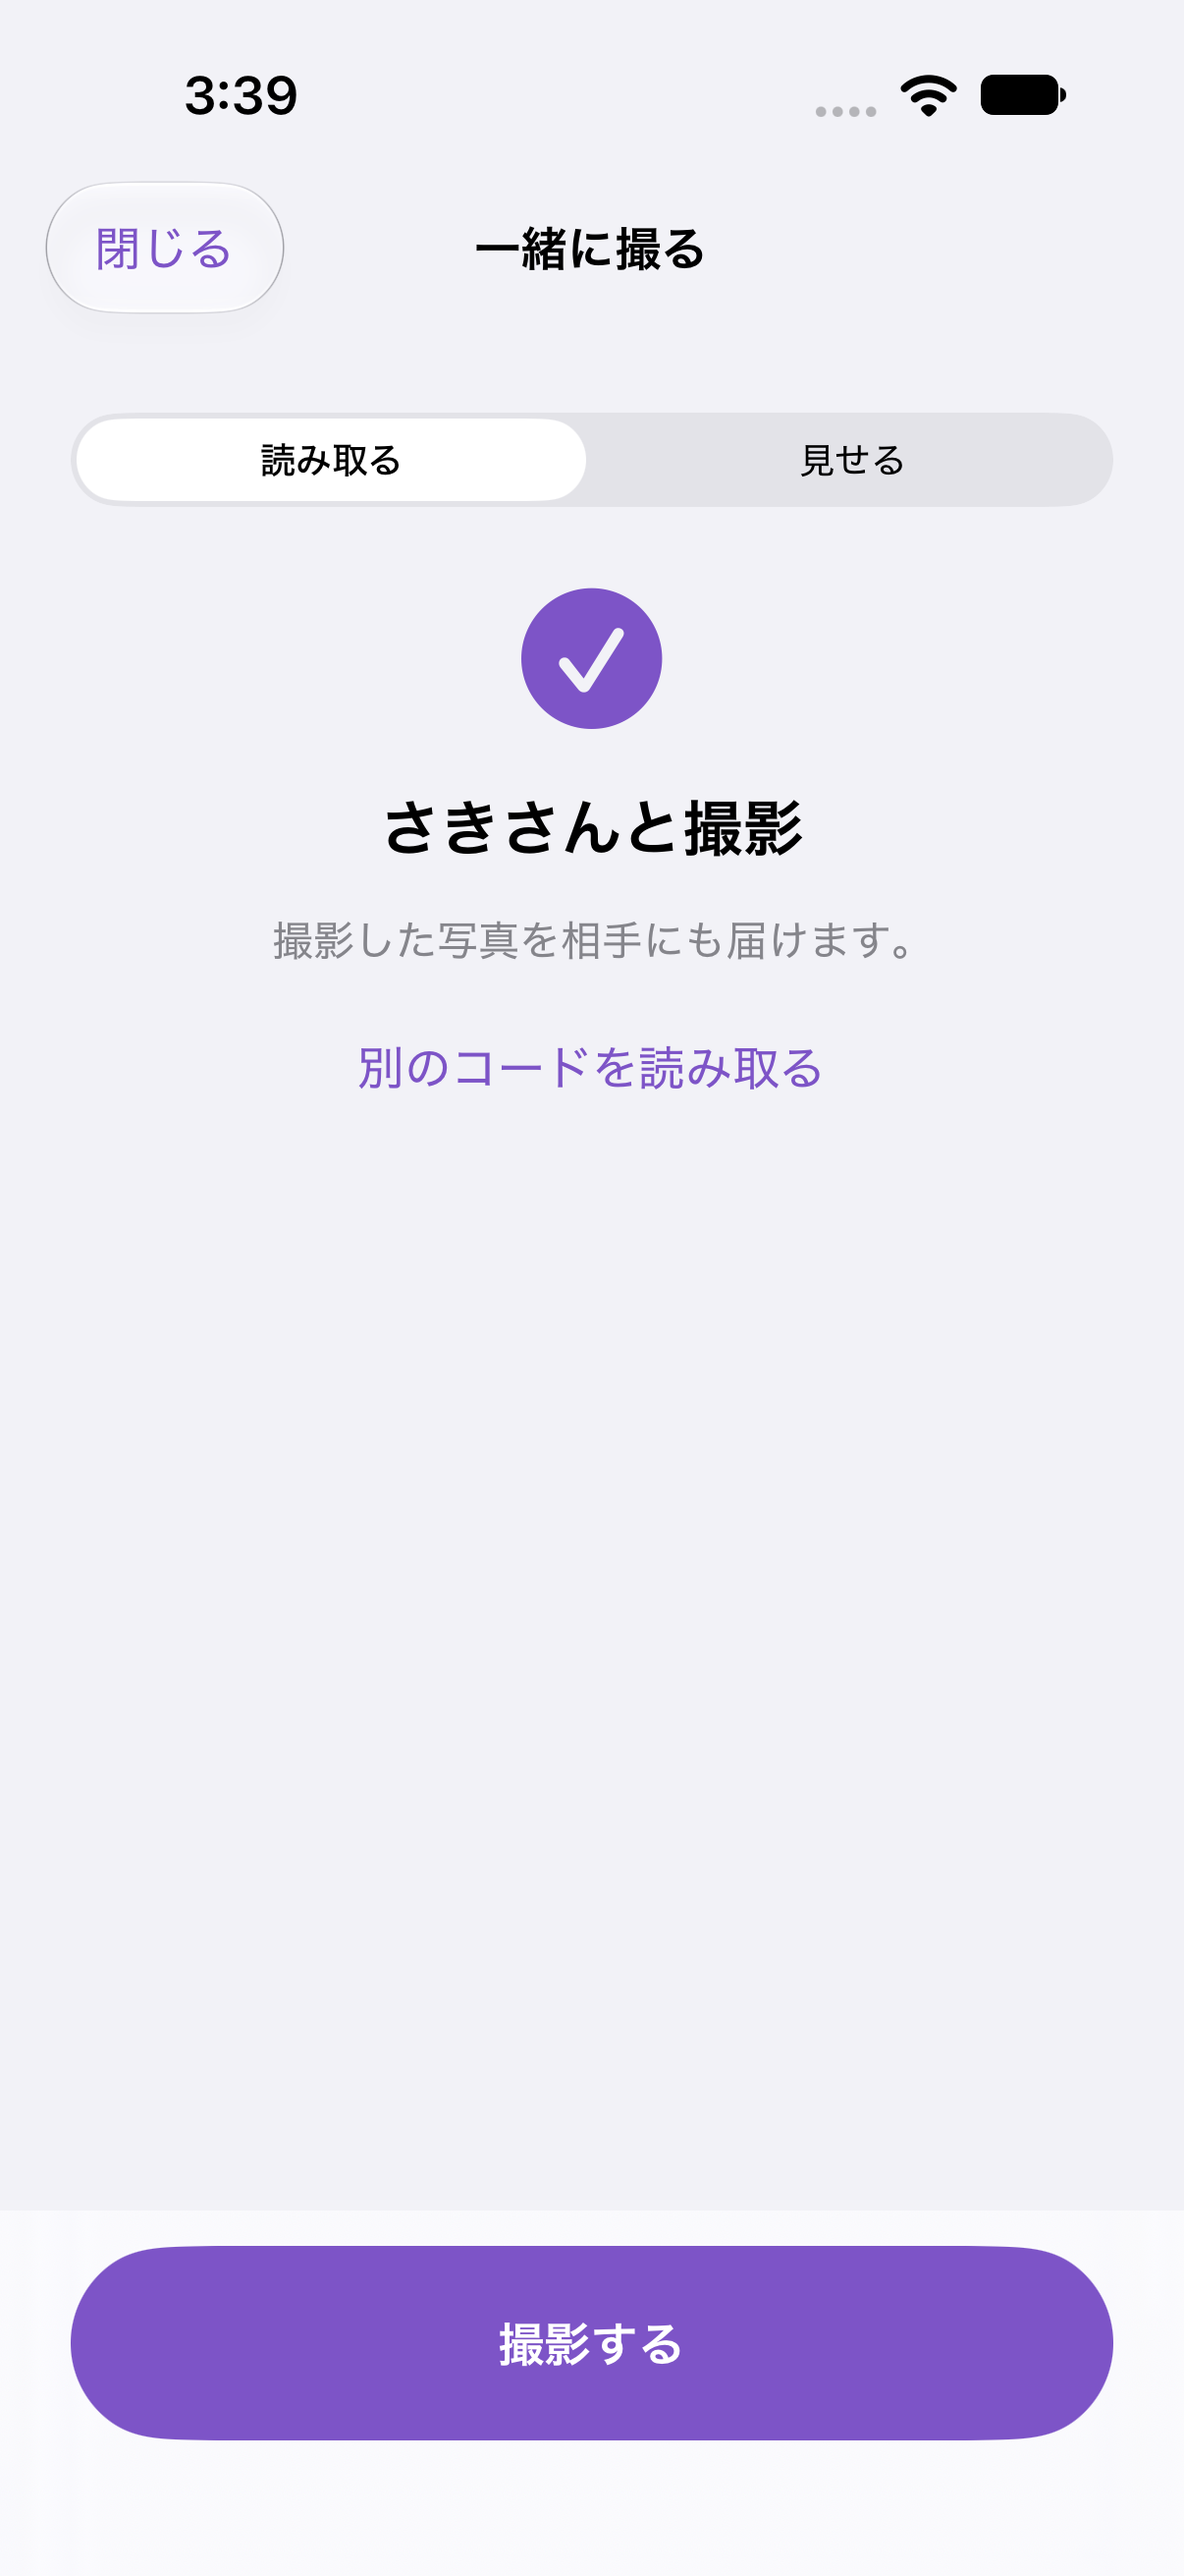
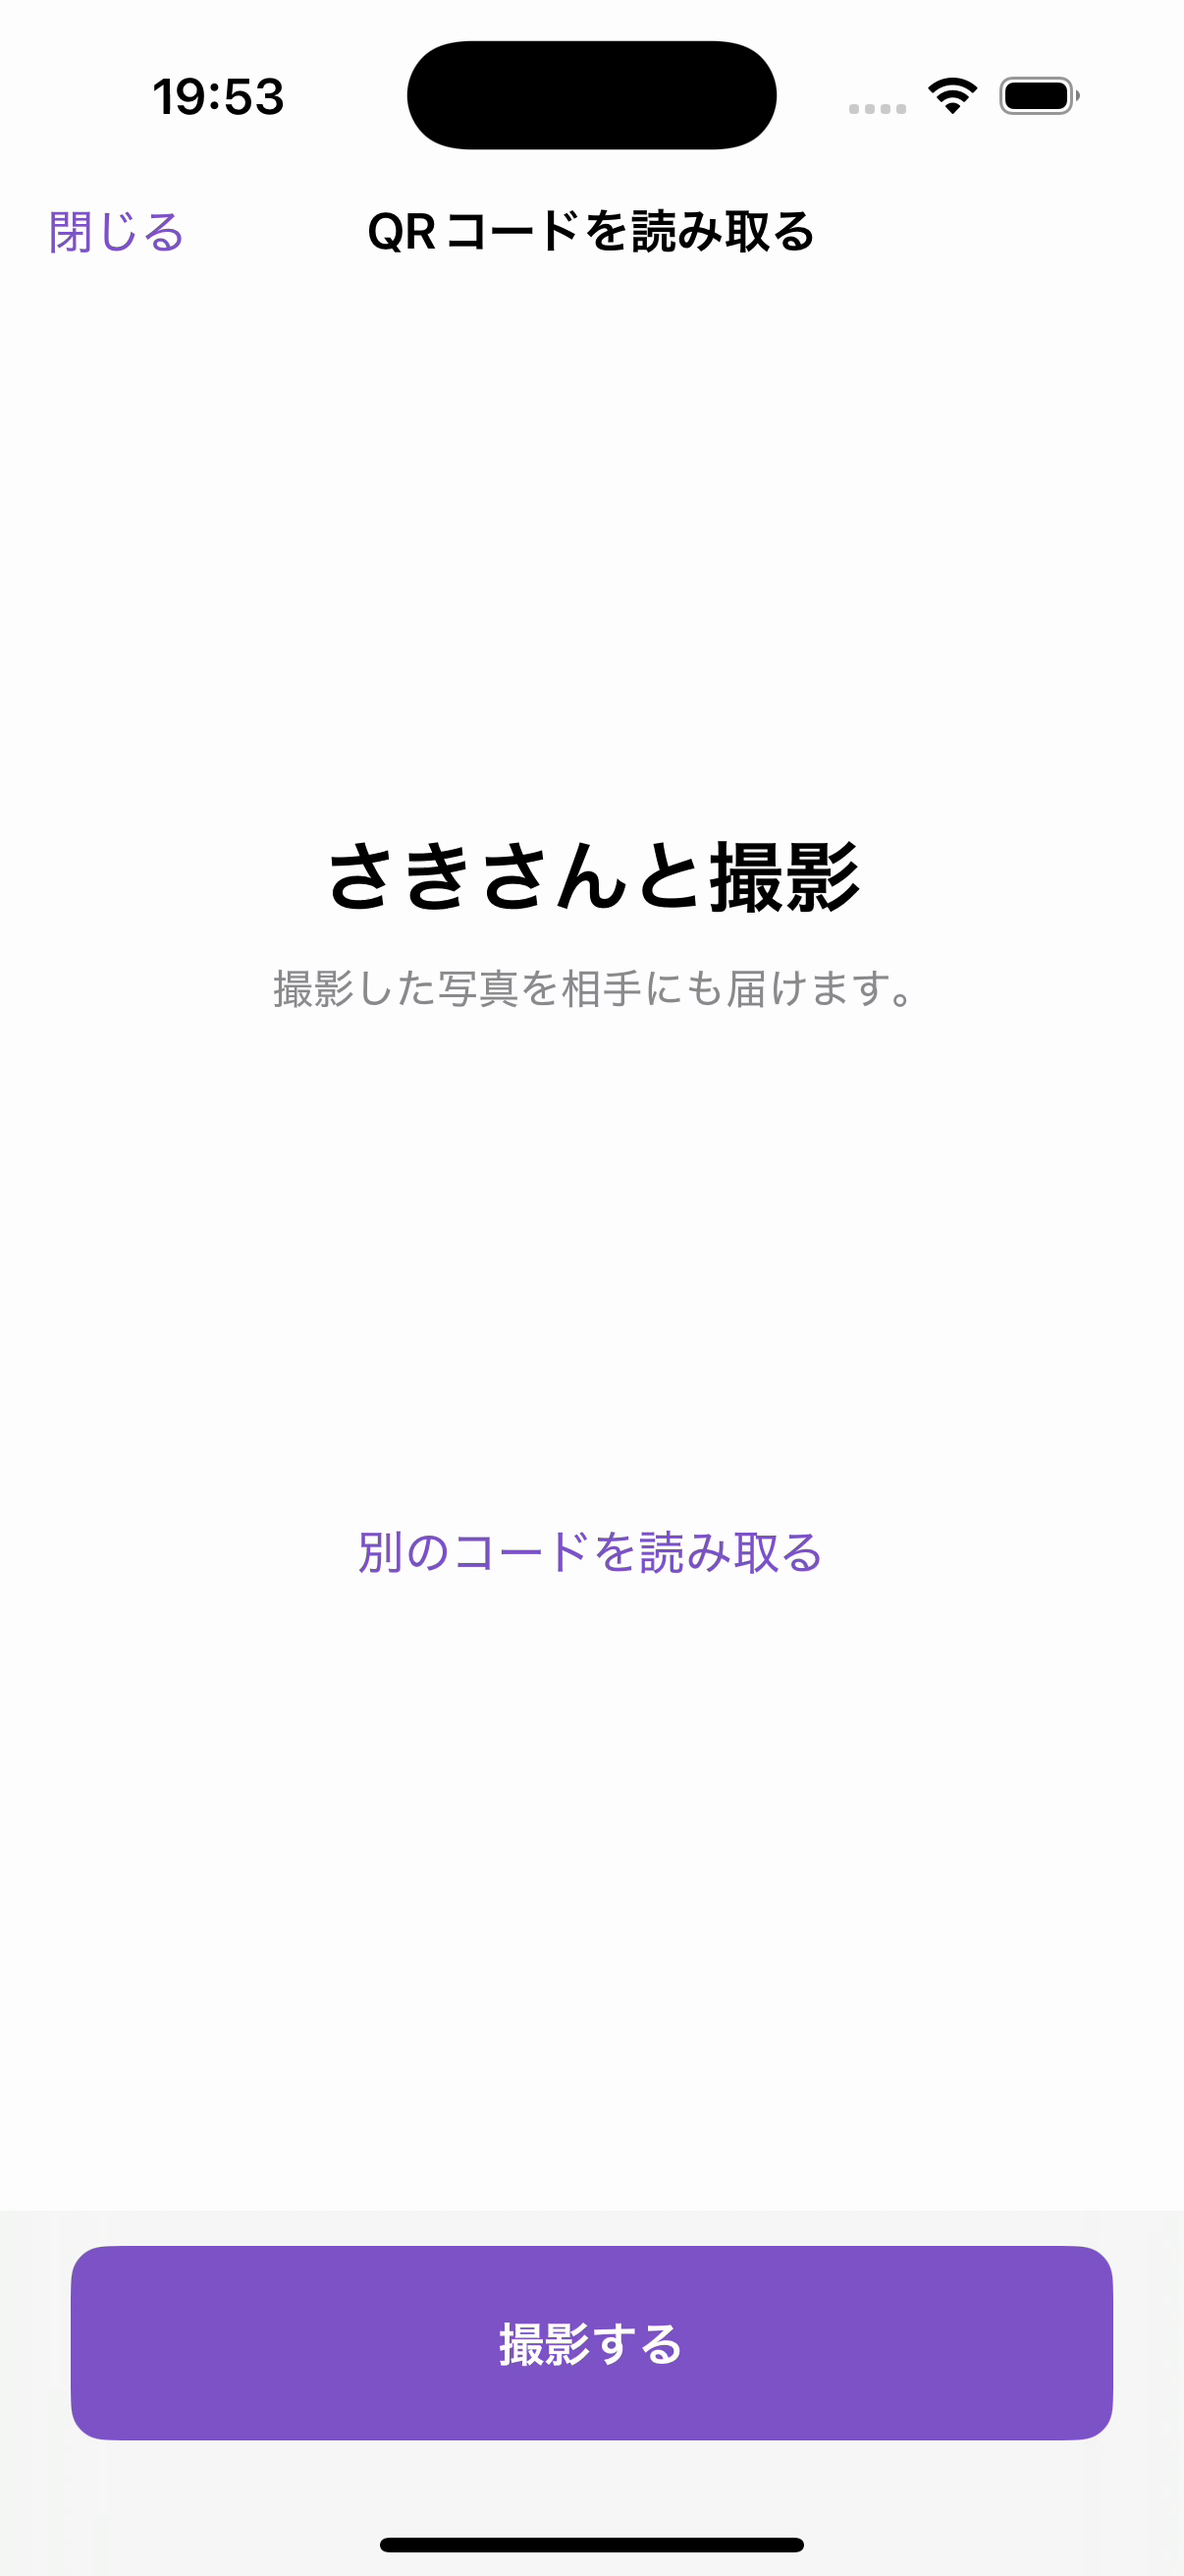
QR画面をカメラとコード中心の構成に調整

diff --git a/sotsugyo/View/FriendQRView.swift b/sotsugyo/View/FriendQRView.swift
@@ -7,9 +7,9 @@ struct FriendQRView: View {
     @Binding var isPresentingQR: Bool
     @State var friendUid: String
 
-    private enum Mode: String, CaseIterable {
-        case scan = "読み取る"
-        case show = "見せる"
+    private enum Mode {
+        case scan
+        case show
     }
 
     private let createInvitation: () async throws -> CameraInvitation
@@ -41,29 +41,31 @@ struct FriendQRView: View {
     var body: some View {
         NavigationStack {
             ScrollView {
-                VStack(spacing: 24) {
-                    Picker("QRコードの使い方", selection: $mode) {
-                        ForEach(Mode.allCases, id: \.self) { mode in
-                            Text(mode.rawValue).tag(mode)
-                        }
-                    }
-                    .pickerStyle(.segmented)
-                    .accessibilityIdentifier("qr.mode")
-                    .disabled(isCheckingCode)
-
+                VStack(spacing: 0) {
                     if mode == .scan { scanContent }
                     else { showContent }
                 }
                 .frame(maxWidth: 440)
                 .frame(maxWidth: .infinity)
-                .padding(24)
+                .padding(.horizontal, 24)
+                .padding(.vertical, 32)
             }
-            .background(Color(uiColor: .systemGroupedBackground))
-            .navigationTitle("一緒に撮る")
+            .background(Color(uiColor: .systemBackground))
+            .navigationTitle(mode == .scan ? "QRコードを読み取る" : "QRコードを見せる")
             .navigationBarTitleDisplayMode(.inline)
             .toolbar {
                 ToolbarItem(placement: .cancellationAction) {
-                    Button("閉じる") { isPresentingQR = false }
+                    if mode == .show {
+                        Button("読み取る", systemImage: "chevron.left") { mode = .scan }
+                            .accessibilityIdentifier("qr.scanMode")
+                    } else {
+                        Button("閉じる") { isPresentingQR = false }
+                    }
+                }
+                if mode == .show {
+                    ToolbarItem(placement: .confirmationAction) {
+                        Button("閉じる") { isPresentingQR = false }
+                    }
                 }
             }
             .safeAreaInset(edge: .bottom) {
@@ -73,11 +75,11 @@ struct FriendQRView: View {
                             .font(.headline)
                             .frame(maxWidth: .infinity, minHeight: 52)
                     }
-                        .buttonStyle(.borderedProminent)
-                        .padding(.horizontal, 24)
-                        .padding(.vertical, 12)
-                        .background(.bar)
-                        .accessibilityIdentifier("qr.takePhoto")
+                    .buttonStyle(.borderedProminent)
+                    .padding(.horizontal, 24)
+                    .padding(.vertical, 12)
+                    .background(.bar)
+                    .accessibilityIdentifier("qr.takePhoto")
                 }
             }
             .fullScreenCover(isPresented: $isPresentingQRCode) {
@@ -99,23 +101,21 @@ struct FriendQRView: View {
     }
 
     private var scanContent: some View {
-        VStack(spacing: 16) {
+        VStack(spacing: 24) {
             if let friendName {
-                Image(systemName: "checkmark.circle.fill")
-                    .font(.system(size: 48))
-                    .foregroundStyle(GiftPalette.purpleText)
-                    .accessibilityHidden(true)
-                Text("\(friendName)さんと撮影")
-                    .font(.title2.bold())
-                    .accessibilityIdentifier("qr.confirmedName")
-                Text("撮影した写真を相手にも届けます。")
-                    .font(.subheadline)
-                    .foregroundStyle(.secondary)
+                VStack(spacing: 12) {
+                    Text("\(friendName)さんと撮影")
+                        .font(.title.bold())
+                        .accessibilityIdentifier("qr.confirmedName")
+                    Text("撮影した写真を相手にも届けます。")
+                        .font(.subheadline)
+                        .foregroundStyle(.secondary)
+                }
+                .frame(maxWidth: .infinity, minHeight: 360)
                 Button("別のコードを読み取る") { resetScanner() }
-                    .padding(.top, 8)
             } else if isCheckingCode {
                 ProgressView("招待を確認しています…")
-                    .frame(maxWidth: .infinity, minHeight: 320)
+                    .frame(maxWidth: .infinity, minHeight: 360)
             } else if let scanError {
                 ContentUnavailableView("読み取れませんでした", systemImage: "qrcode.viewfinder",
                                        description: Text(scanError))
@@ -133,12 +133,23 @@ struct FriendQRView: View {
                 }
             } else {
                 Text("友達のQRコードを枠に合わせてください")
-                    .font(.headline)
+                    .font(.subheadline)
+                    .foregroundStyle(.secondary)
                     .multilineTextAlignment(.center)
                 #if targetEnvironment(simulator)
-                ContentUnavailableView("カメラを使用できません", systemImage: "camera",
-                                       description: Text("QRコードの読み取りは実機で確認してください。"))
-                    .frame(maxWidth: .infinity, minHeight: 320)
+                ZStack {
+                    Color.black
+                    RoundedRectangle(cornerRadius: 16)
+                        .strokeBorder(.white.opacity(0.8), lineWidth: 2)
+                        .frame(width: 236, height: 236)
+                    Text("カメラは実機で使用できます")
+                        .font(.subheadline)
+                        .foregroundStyle(.white)
+                        .padding(12)
+                        .background(.black.opacity(0.65), in: Capsule())
+                }
+                .frame(height: 400)
+                .clipShape(RoundedRectangle(cornerRadius: 16))
                 #if DEBUG
                 if UITestFixtures.isEnabled && ProcessInfo.processInfo.arguments.contains("-ui-testing-qr") {
                     Button("読み取りを試す") {
@@ -161,36 +172,34 @@ struct FriendQRView: View {
                     }
                 }
                 .id(scannerID)
-                .frame(height: 320)
-                .clipShape(RoundedRectangle(cornerRadius: 20))
+                .frame(height: 400)
+                .clipShape(RoundedRectangle(cornerRadius: 16))
                 .accessibilityLabel("QRコード読み取りカメラ")
                 #endif
-                Text("読み取ると、撮影相手を確認できます。")
-                    .font(.footnote)
-                    .foregroundStyle(.secondary)
-                    .multilineTextAlignment(.center)
+            }
+            if !isCheckingCode && friendName == nil {
+                Button("自分のQRコードを見せる") { mode = .show }
+                    .accessibilityIdentifier("qr.showMode")
             }
         }
         .frame(maxWidth: .infinity)
     }
 
     private var showContent: some View {
-        VStack(spacing: 16) {
-            Text("このQRコードを友達に見せてください")
-                .font(.headline)
-                .multilineTextAlignment(.center)
+        VStack(spacing: 24) {
             if let qrCodeImage {
                 Image(uiImage: qrCodeImage)
                     .interpolation(.none)
                     .resizable()
                     .frame(width: 236, height: 236)
-                    .padding(20)
-                    .background(.white, in: RoundedRectangle(cornerRadius: 20))
+                    .padding(24)
+                    .background(.white)
                     .accessibilityLabel("友達に見せる招待QRコード")
                     .accessibilityIdentifier("qr.code")
+                    .frame(maxWidth: .infinity, minHeight: 360)
             } else if isCreatingCode {
                 ProgressView("QRコードを作成しています…")
-                    .frame(maxWidth: .infinity, minHeight: 276)
+                    .frame(maxWidth: .infinity, minHeight: 360)
             }
             if let codeError {
                 Text(codeError)
@@ -199,7 +208,7 @@ struct FriendQRView: View {
                     .multilineTextAlignment(.center)
                     .accessibilityIdentifier("qr.codeError")
             } else {
-                Text("友達が読み取ると、一緒に撮った写真を受け取れます。\nQRコードは15分間有効です。")
+                Text("友達に見せてください。15分間有効です。")
                     .font(.subheadline)
                     .foregroundStyle(.secondary)
                     .multilineTextAlignment(.center)

diff --git a/sotsugyoUITests/sotsugyoUITests.swift b/sotsugyoUITests/sotsugyoUITests.swift
@@ -231,7 +231,7 @@ final class sotsugyoUITests: XCTestCase {
         attachScreenshot("撮影相手の確認")
         app.buttons["別のコードを読み取る"].tap()
         XCTAssertTrue(app.buttons["qr.simulateScan"].waitForExistence(timeout: 5))
-        app.buttons["見せる"].tap()
+        app.buttons["qr.showMode"].tap()
         XCTAssertTrue(app.images["qr.code"].waitForExistence(timeout: 5))
         attachScreenshot("友達に見せるQRコード")
     }

diff --git a/docs/screenshots/qr-scanner/README.md b/docs/screenshots/qr-scanner/README.md
@@ -1,8 +1,8 @@
 # QRコード画面の確認
 
-2026-10-12、iPhone 18 Pro シミュレーター（iOS 27.0）で `testCameraQRCodeFlow` を実行して撮影しました。テスト用の招待データを使用しています。
+2026-10-13、iPhone 16 Pro シミュレーター（iOS 18.5）で `testCameraQRCodeFlow` を実行して撮影しました。テスト用の招待データを使用しています。相手の確認とQR表示はテスト操作中の画面録画から静止画を取り出しました。
 
-- [読み取り画面](scan-simulator.png)：シミュレーターではカメラを使用できないため、実機確認の案内を表示します。
+- [読み取り画面](scan-simulator.png)：シミュレーターではカメラを使用できないため、カメラ領域に実機確認の案内を表示します。
 - [相手の確認](confirmed.png)：読み取り結果を確認してから撮影に進みます。
 - [自分のQRコード](show-code.png)：相手に見せる招待コードです。
 
